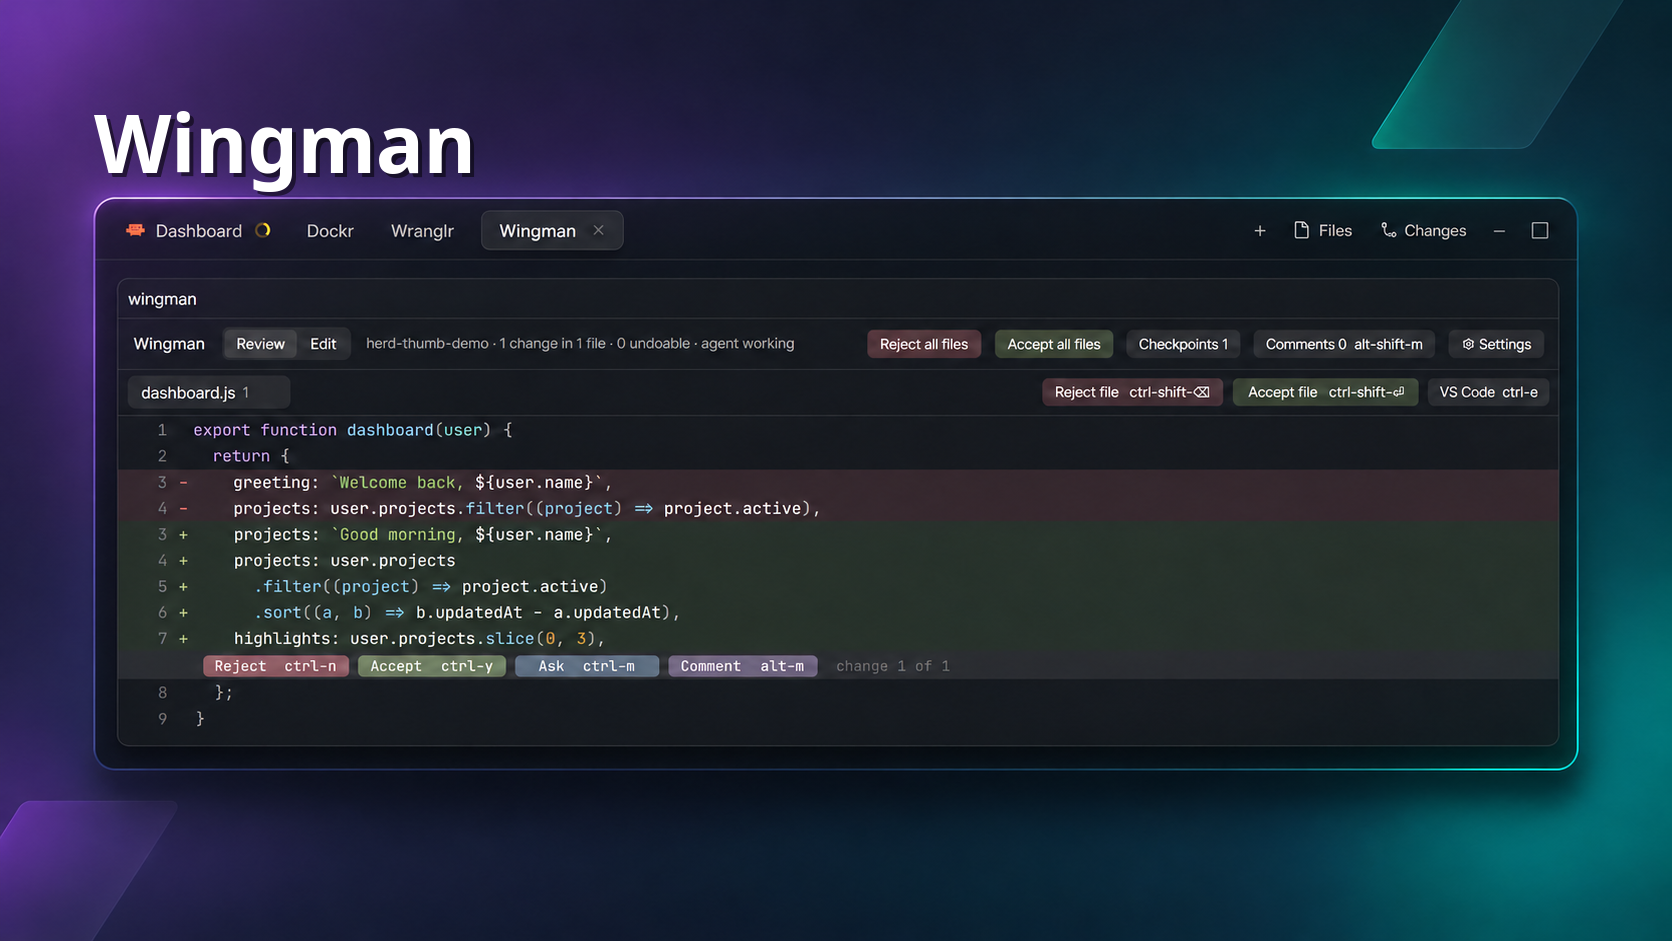
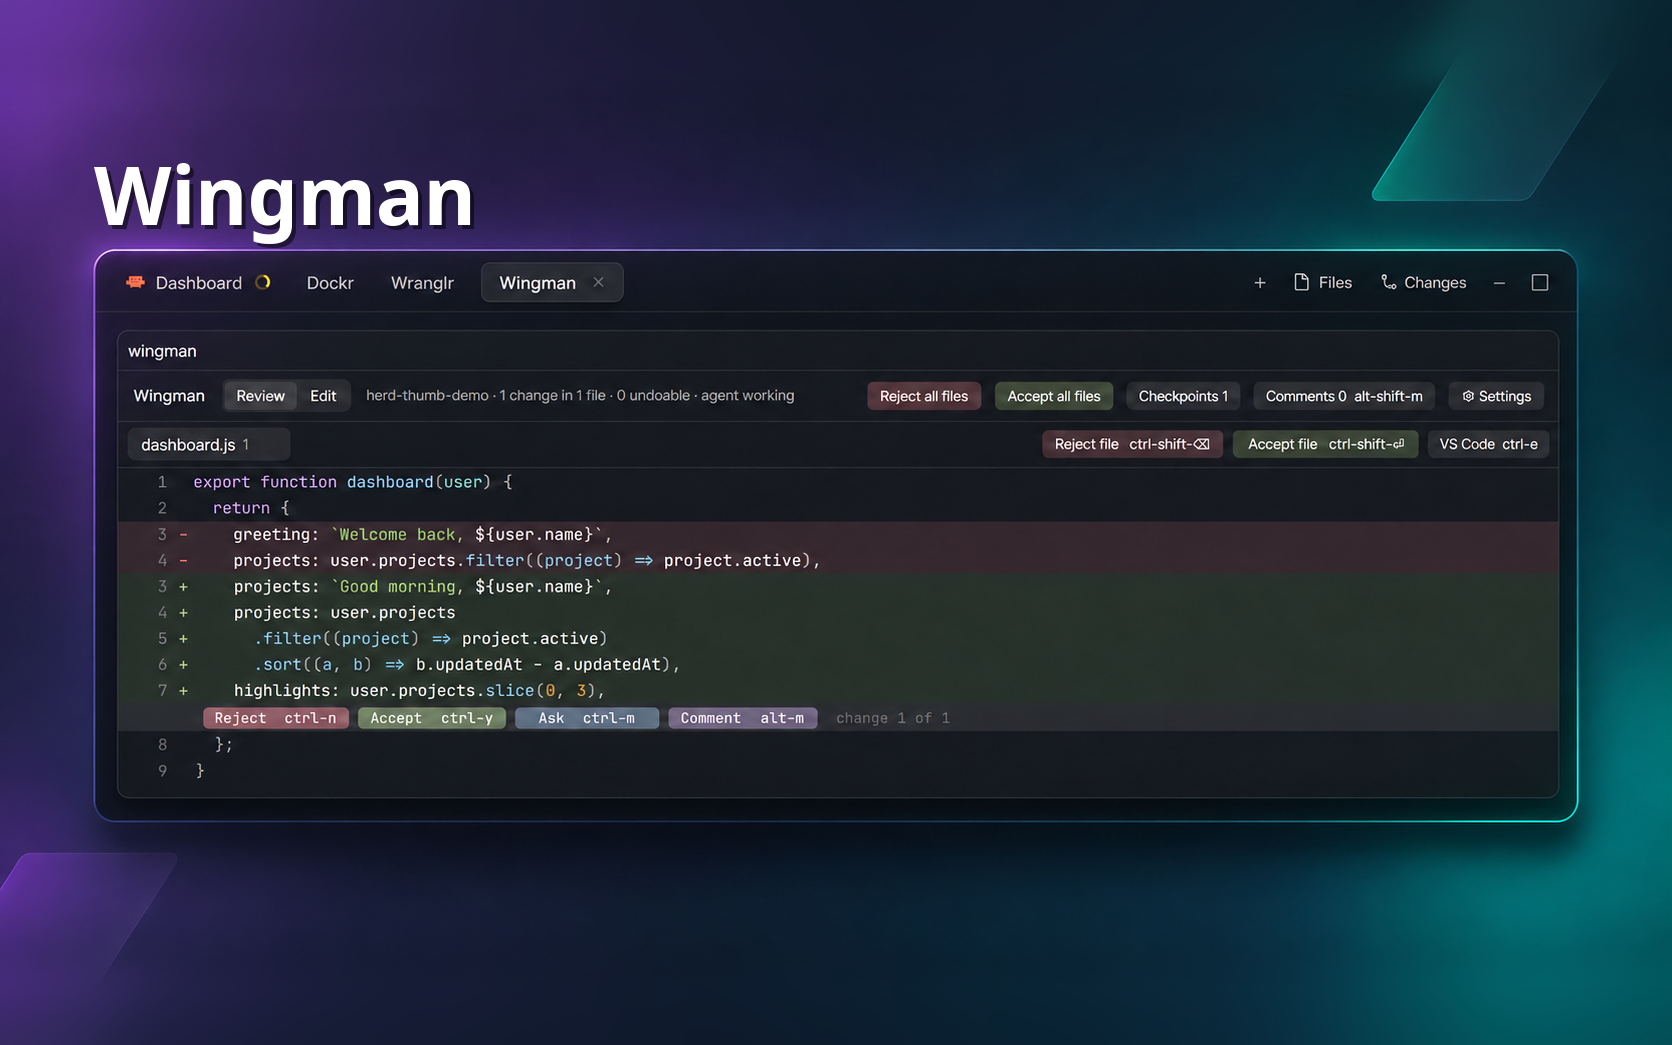
Match previews to Gallery aspect ratio

diff --git a/docs/agents/shares.md b/docs/agents/shares.md
@@ -59,6 +59,6 @@ For a styled preview, treat Dockr's preview as the composition reference:
 - Use one clean sans-serif typeface and consistent title sizing across the set.
 - Give each mod its own restrained accent palette while keeping the overall dark developer-tool aesthetic.
 - Add depth with soft directional light, an illuminated frame, shadow and sparse corner geometry. Avoid flat template backgrounds, decorative ribbons, stages and busy glass layers.
-- Preserve a 16:9 canvas and comparable outer margins, but let the interface's natural proportions determine its exact height.
+- Use a 16:10 canvas to match the Herdr Gallery's 960×600 image slot. Preserve comparable outer margins, but let the interface's natural proportions determine its exact height; extend the background instead of stretching the interface.
 - Generate or capture each interface first, then add title, framing and layout deterministically so image generation cannot drift typography or alignment.
 - Review the previews together before publishing. Check title spelling, alignment, interface fidelity, public-safe data and visual weight at gallery size.
